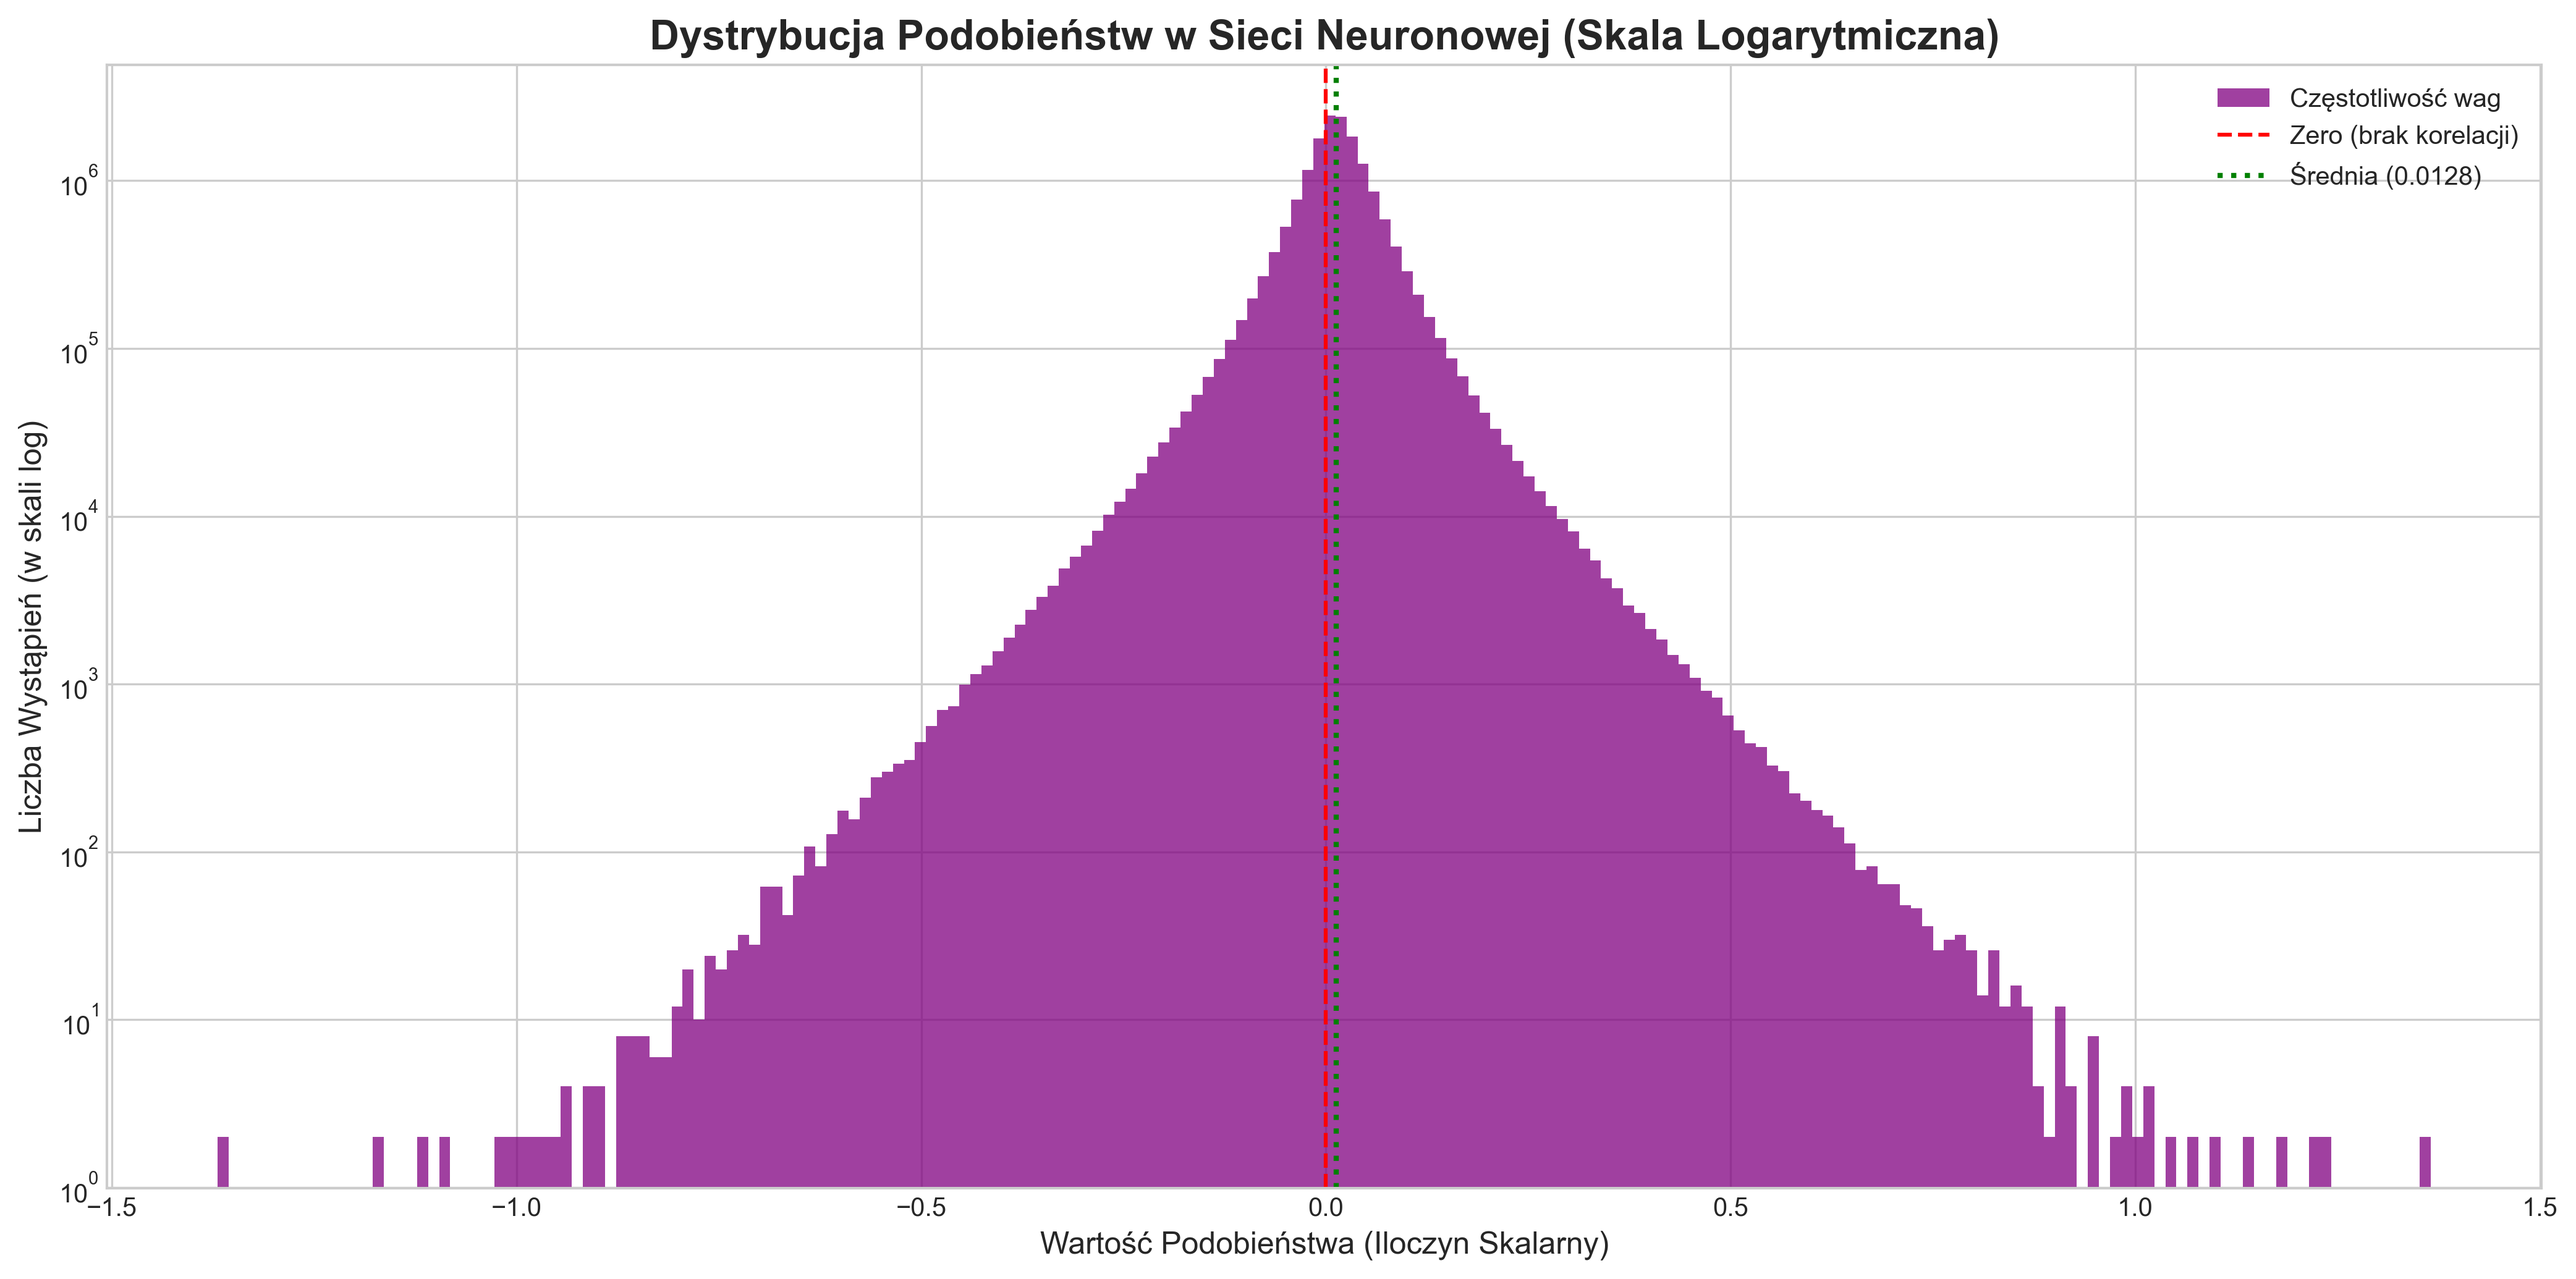
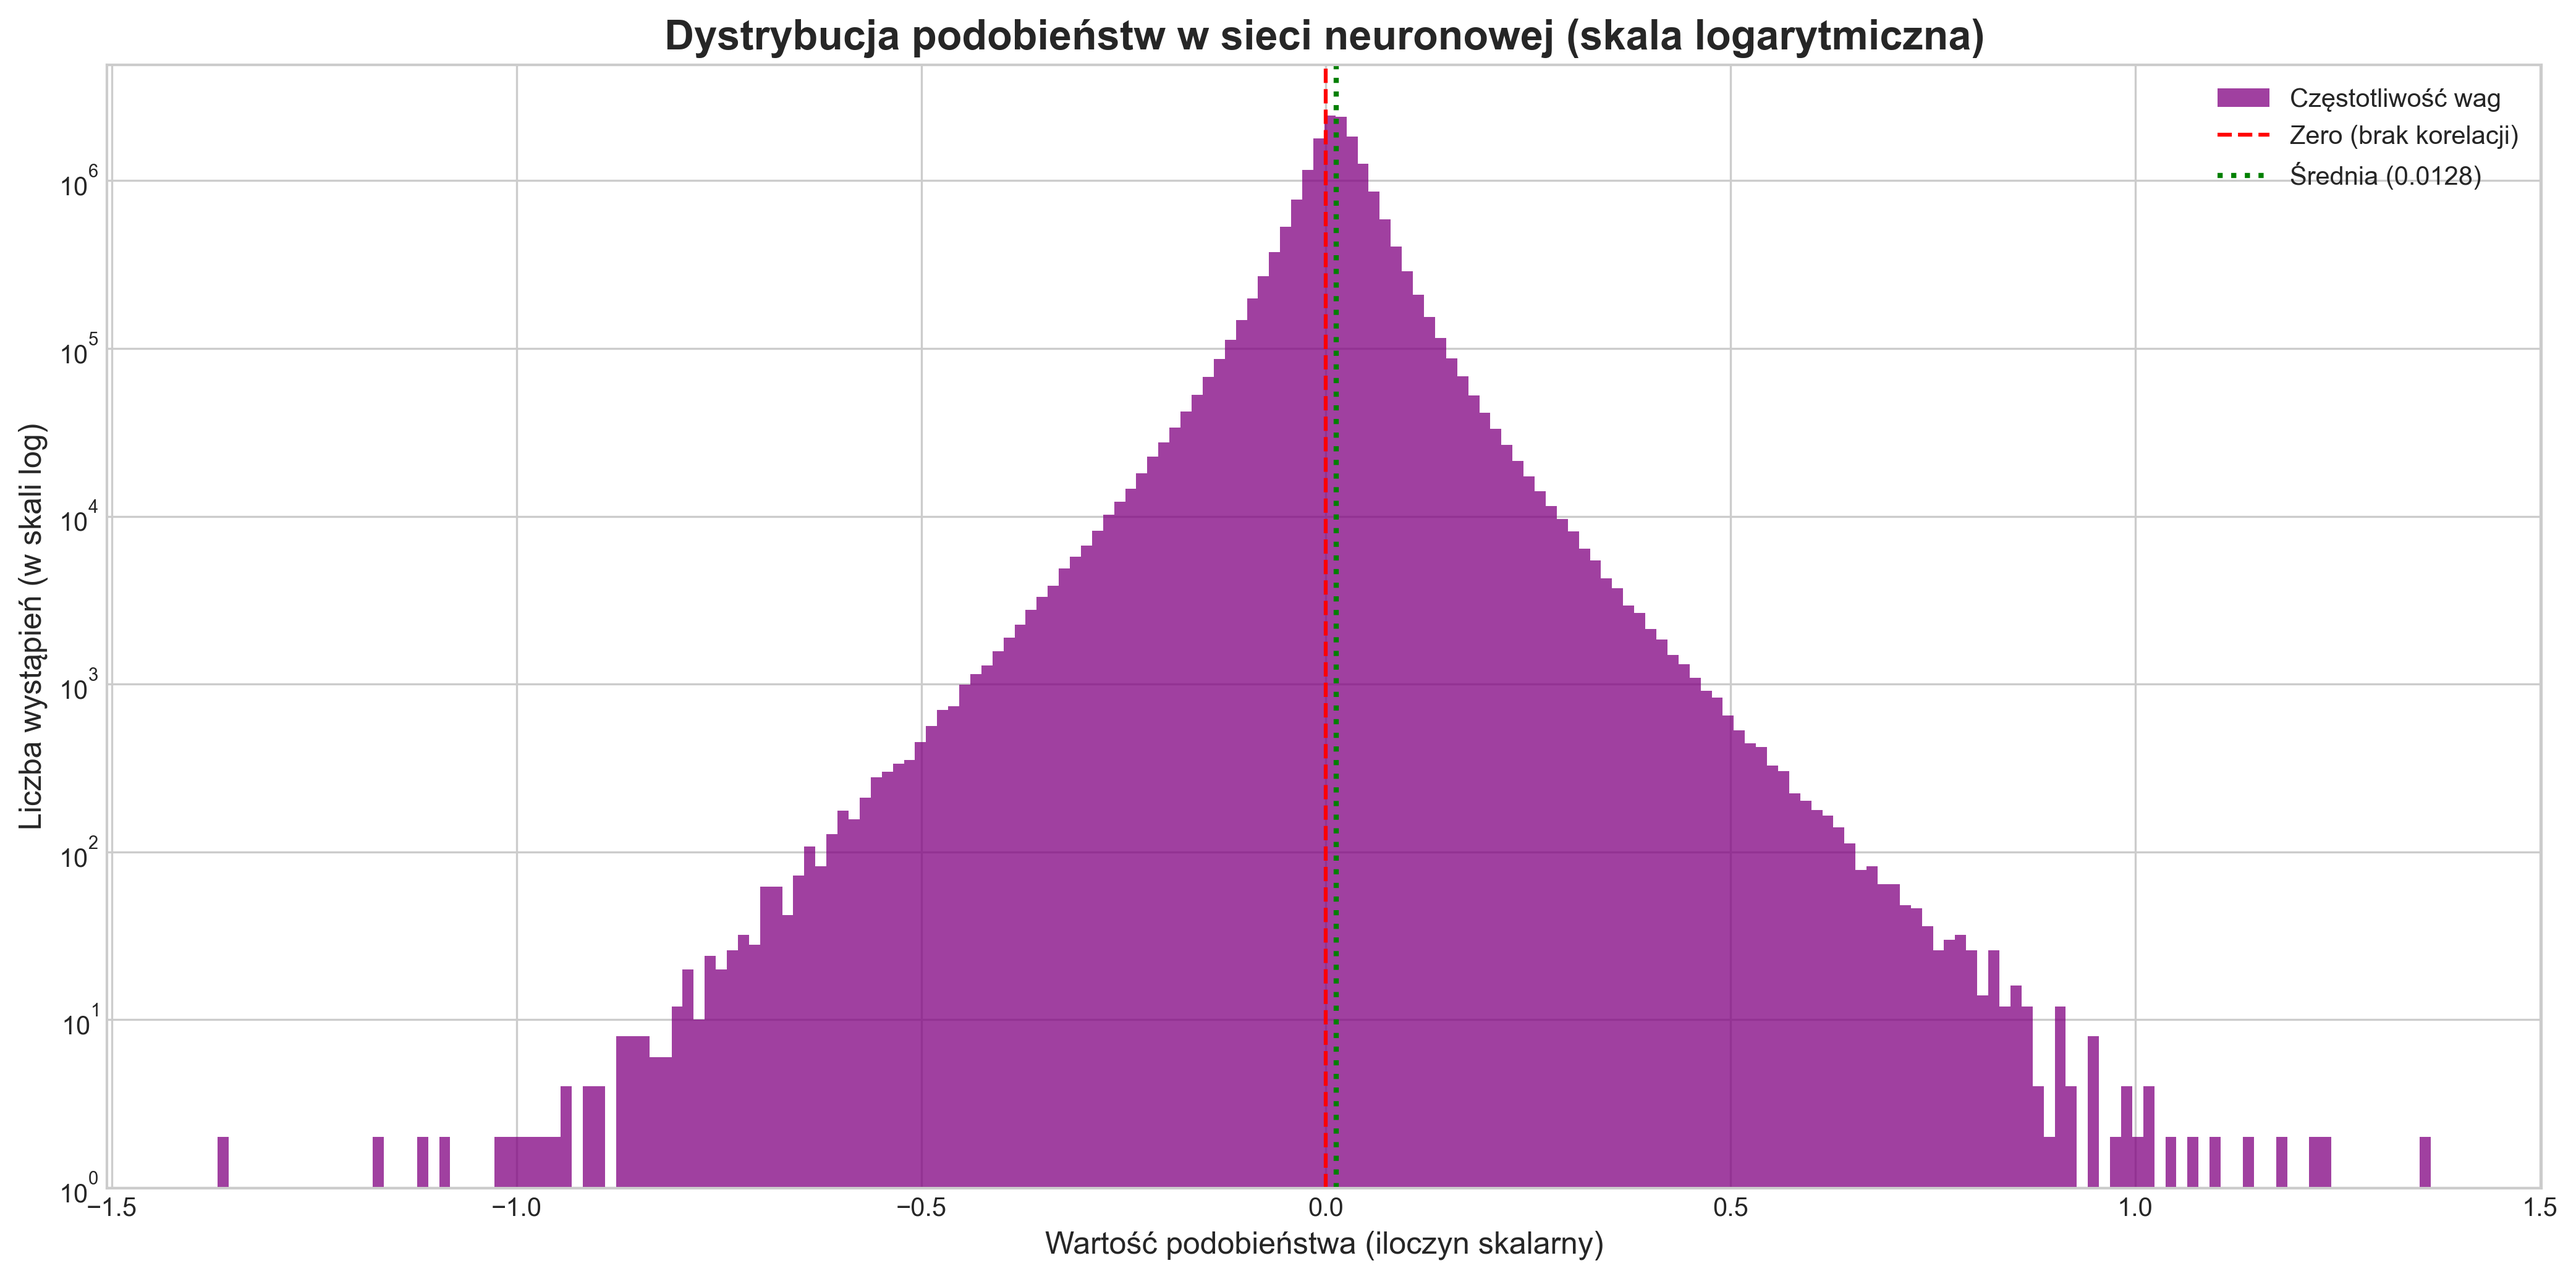
fix: fixed text in generuj_text.py

diff --git a/wizualizuj_siec.py b/wizualizuj_siec.py
@@ -11,7 +11,7 @@ import sys
 try:
     from mini_smoczatko import BDH_GPU, D, H, N
 except ImportError:
-    print("Błąd: Upewnij się, że plik 'mini_smoczatko.py' jest w tym samym folderze.")
+    print("Błąd: upewnij się, że plik 'mini_smoczatko.py' jest w tym samym folderze.")
     sys.exit(1)
 
 MODEL_PATH = 'mini_smoczatko.pth'
@@ -25,7 +25,7 @@ def visualize():
         model.eval()
         print(f"Pomyślnie wczytano model z pliku '{MODEL_PATH}'.")
     except FileNotFoundError:
-        print(f"Błąd: Nie znaleziono pliku modelu '{MODEL_PATH}'.")
+        print(f"Błąd: nie znaleziono pliku modelu '{MODEL_PATH}'.")
         print("Najpierw uruchom 'mini_smoczatko.py', aby wytrenować i zapisać model.")
         return
         
@@ -46,9 +46,9 @@ def visualize():
     fig, ax = plt.subplots(figsize=(14, 7))
     
     ax.hist(weights, bins=200, log=True, color='purple', alpha=0.75, label='Częstotliwość wag')
-    ax.set_title('Dystrybucja Podobieństw w Sieci Neuronowej (Skala Logarytmiczna)', fontsize=16, fontweight='bold')
-    ax.set_xlabel('Wartość Podobieństwa (Iloczyn Skalarny)', fontsize=12)
-    ax.set_ylabel('Liczba Wystąpień (w skali log)', fontsize=12)
+    ax.set_title('Dystrybucja podobieństw w sieci neuronowej (skala logarytmiczna)', fontsize=16, fontweight='bold')
+    ax.set_xlabel('Wartość podobieństwa (iloczyn skalarny)', fontsize=12)
+    ax.set_ylabel('Liczba wystąpień (w skali log)', fontsize=12)
     ax.axvline(0, color='red', linestyle='--', linewidth=1.5, label='Zero (brak korelacji)')
     
     mean_weight = np.mean(weights)
